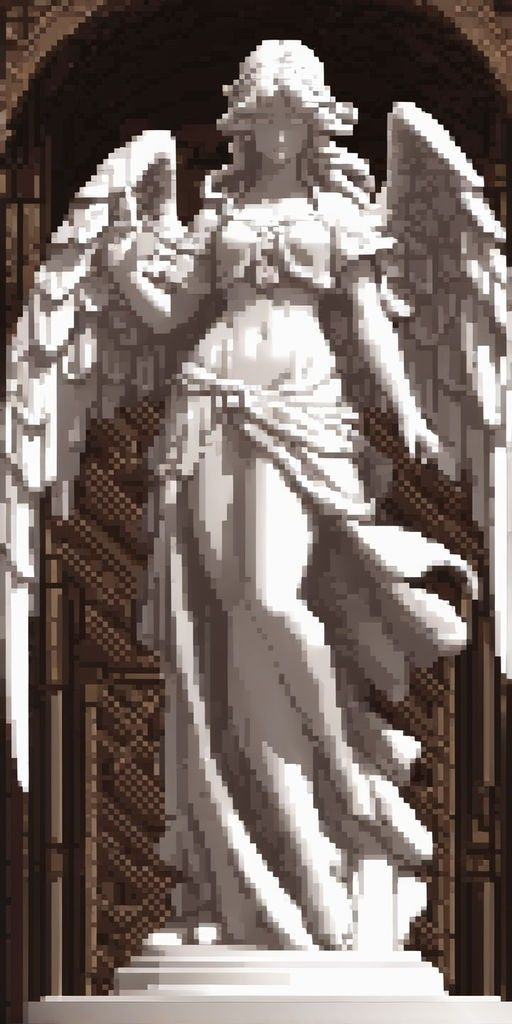
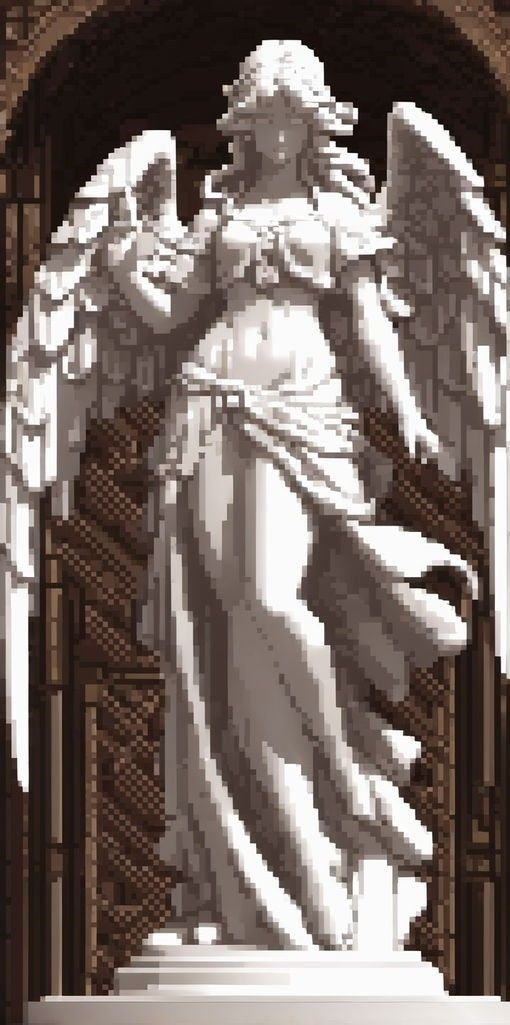
update guardian.jpg and main.py

diff --git a/PIXEL-IMAGE/main.py b/PIXEL-IMAGE/main.py
@@ -18,7 +18,7 @@ def make_pixel(img, SIZE=32):
     img_mid = cv2.resize(img, (0,0), fx=r, fy=r)
     # resize_shape = img_mid.shape; cv2.imshow(f'{resize_shape}', img_mid); cv2.waitKey(0)
 
-    img_up = cv2.resize(img_mid, (0,0), fx=1/r, fy=1/r, interpolation=cv2.INTER_AREA)
+    img_up = cv2.resize(img_mid, (0,0), fx=4/r, fy=4/r, interpolation=cv2.INTER_AREA)
     # cv2.imshow(f'UP {resize_shape, base_shape}', img_up); cv2.waitKey(0)
     
     return img_up
@@ -38,6 +38,7 @@ def make_loaves(imgin):
 
 if __name__ == "__main__":
     img_maked = make_pixel(img, SIZE)
+    print(img_maked.shape)
     # img_maked = make_loaves(img_maked)
     print(DIR + '\\re' + IMG)
     # cv2.imshow(f'{SIZE, img_maked.shape}', img_maked)
